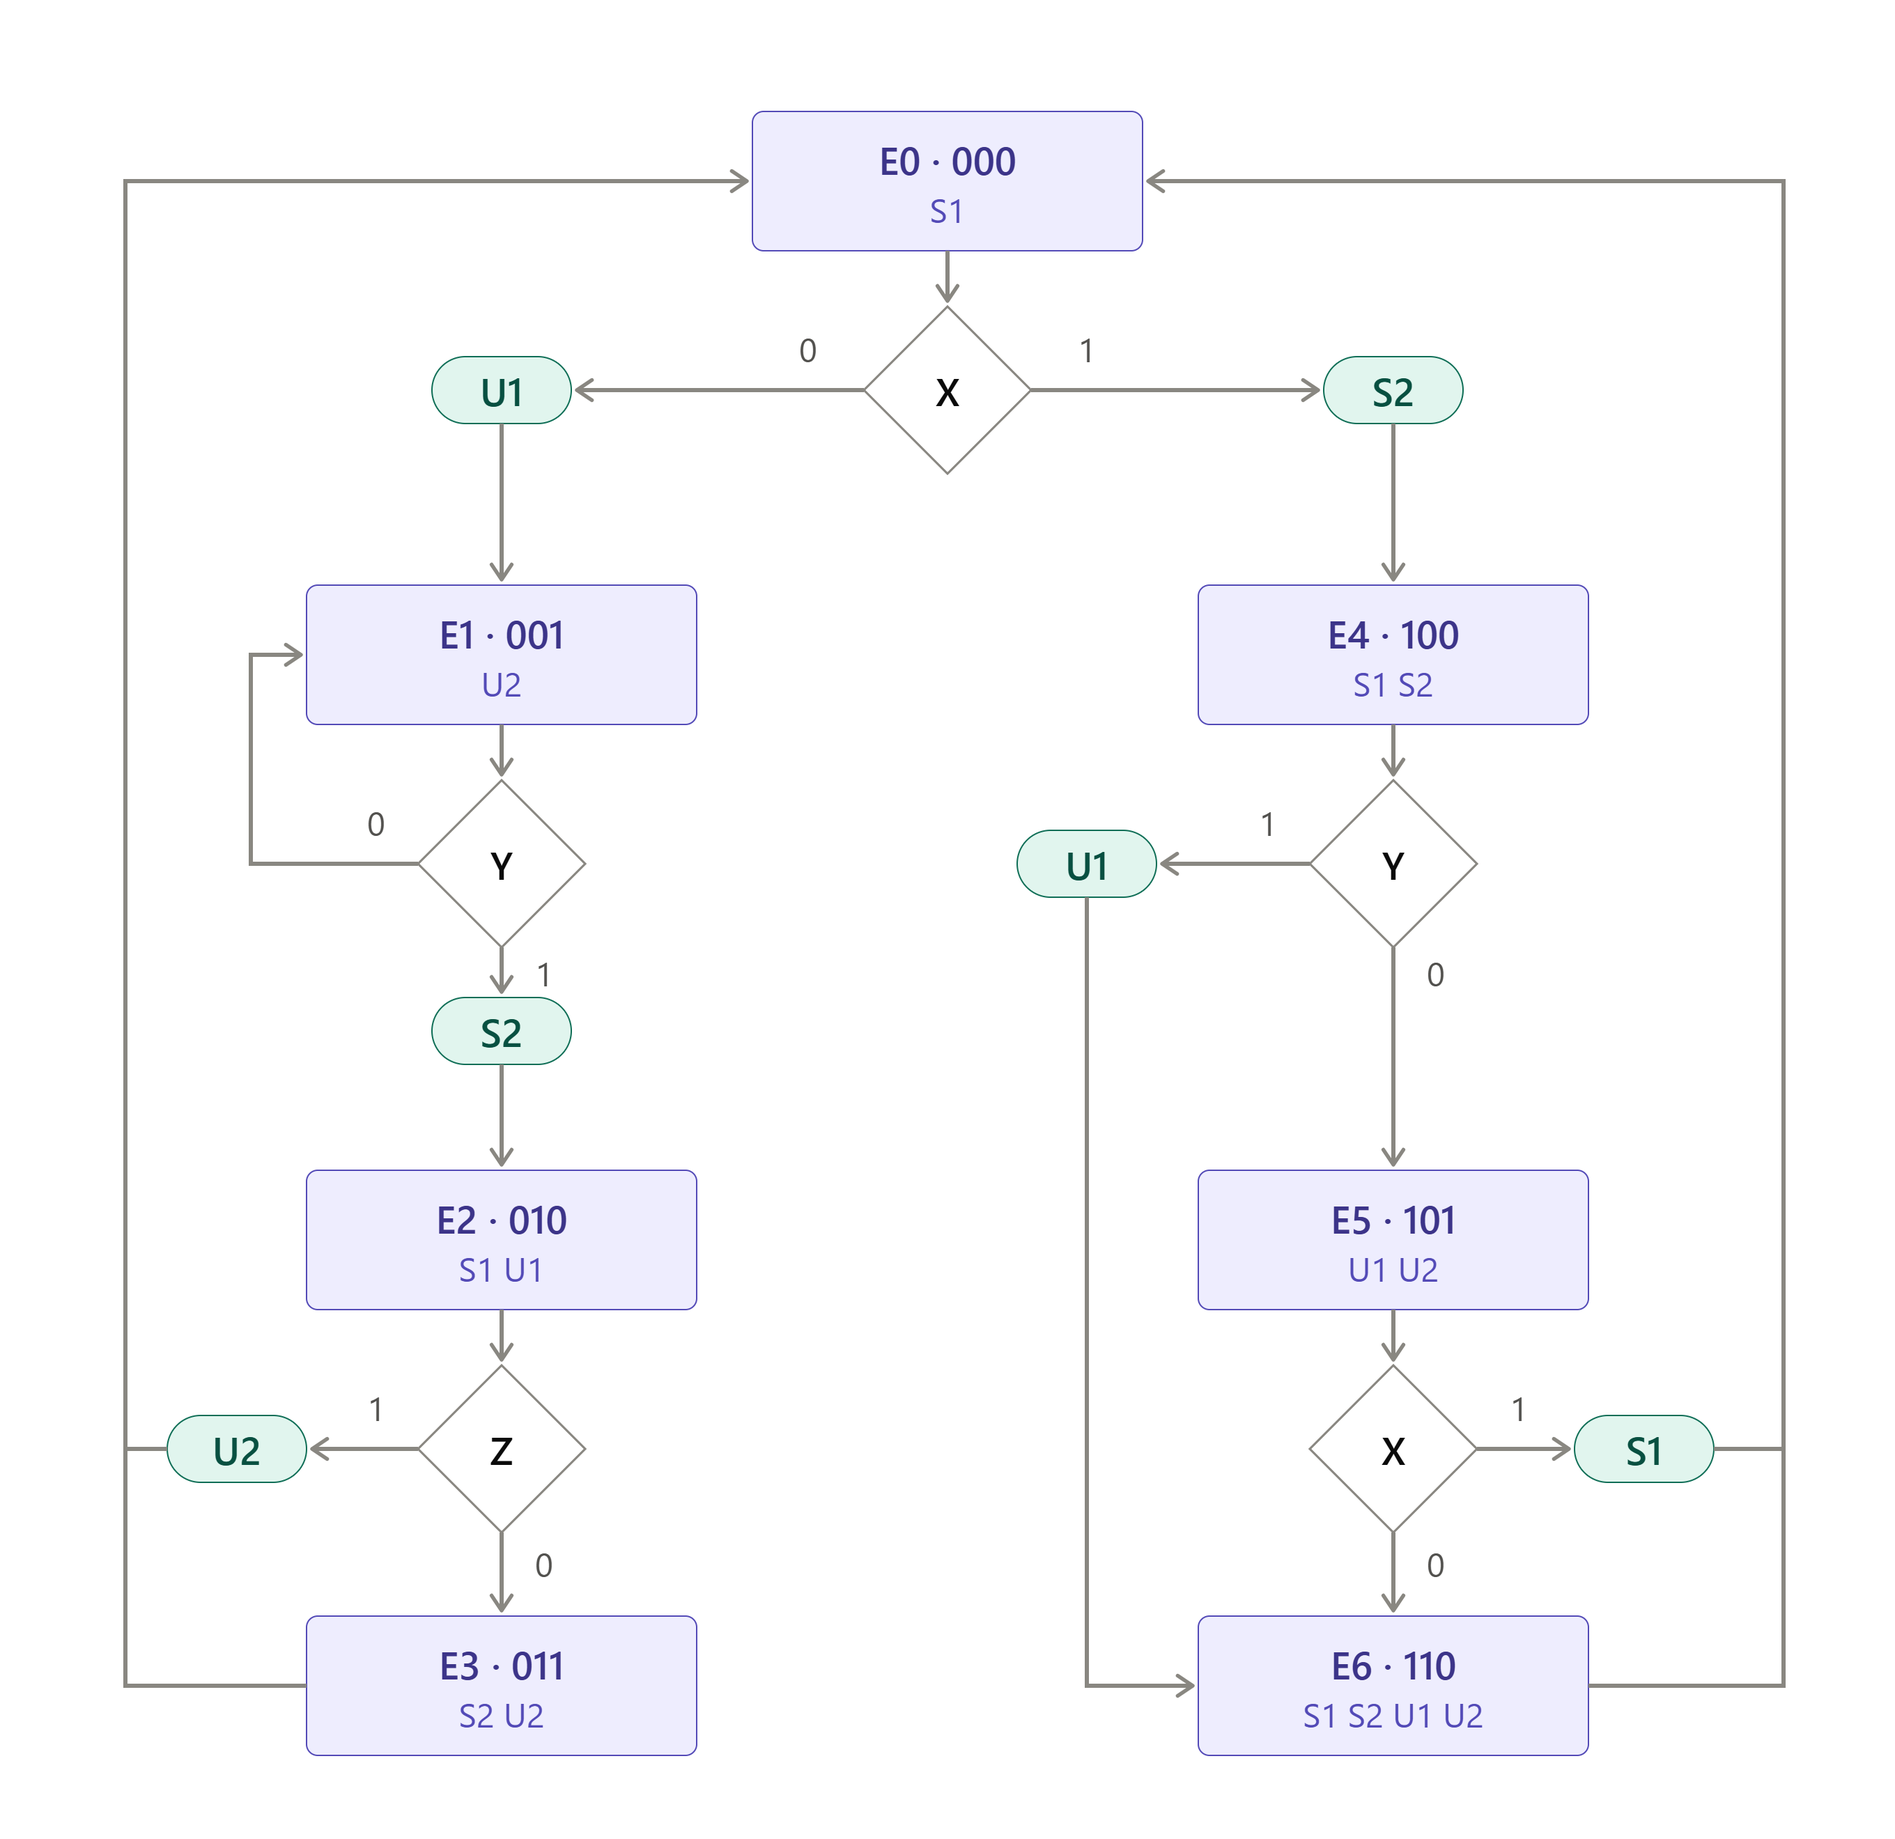
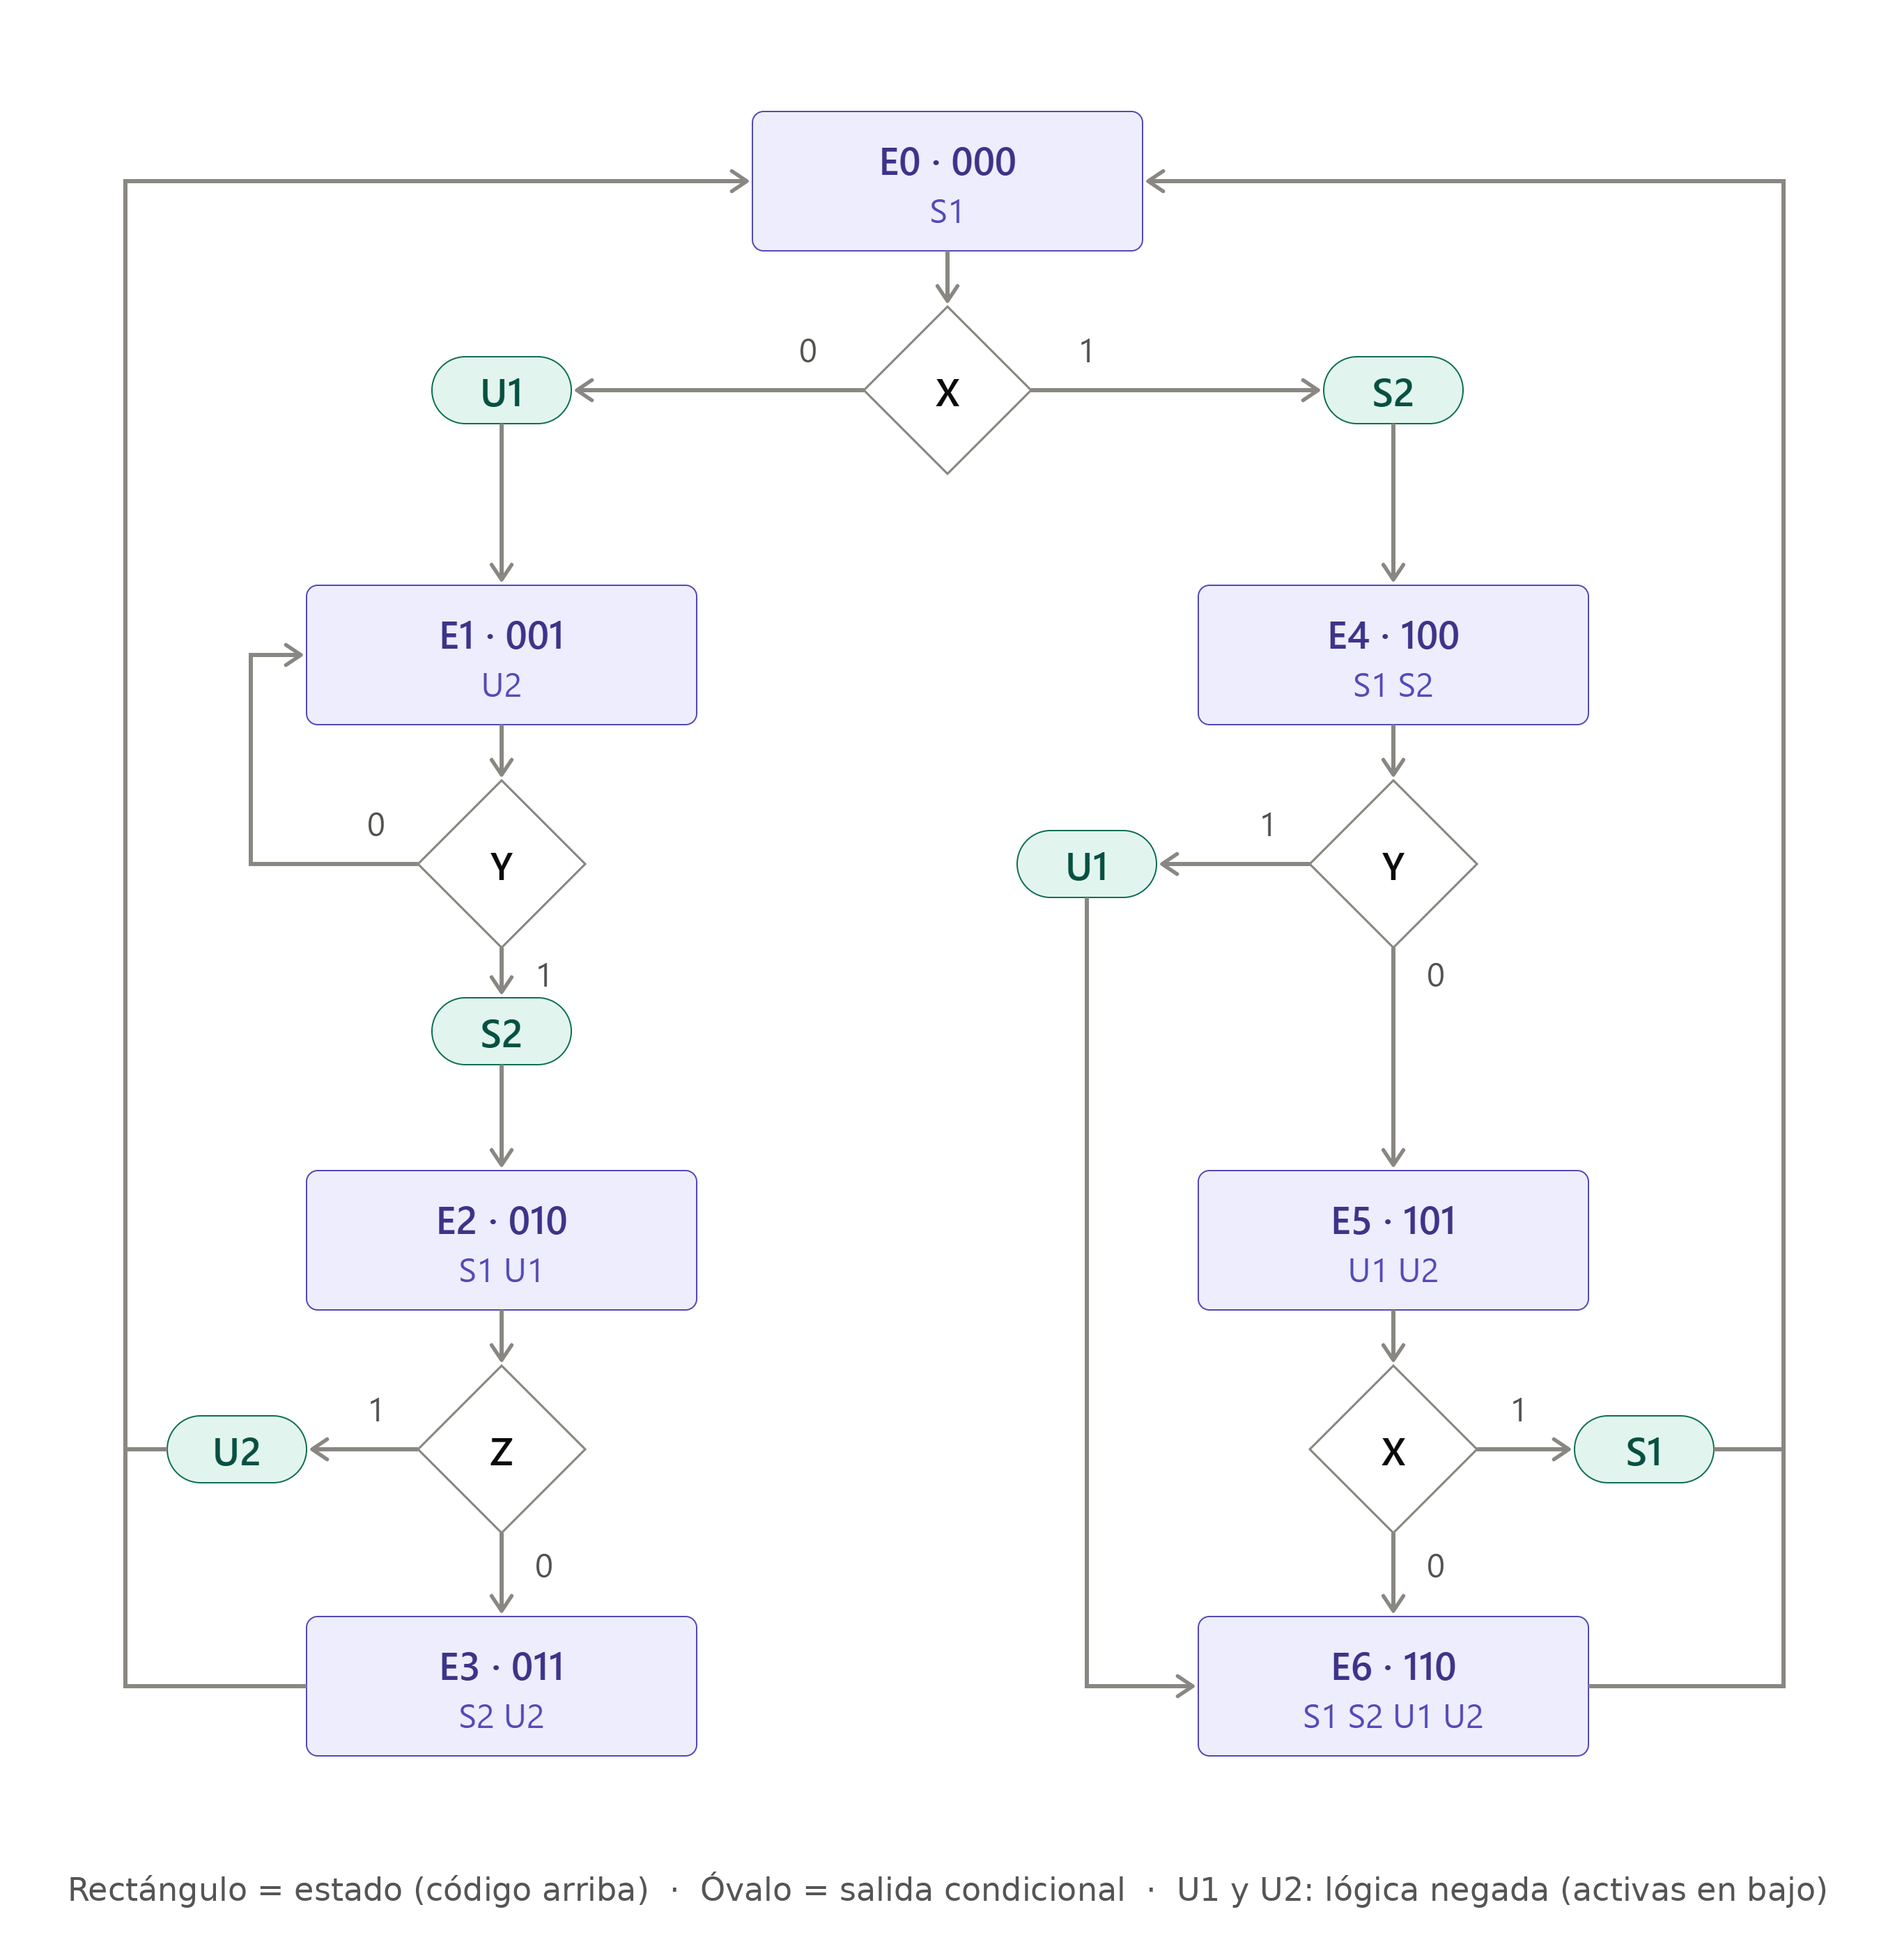
fix(practica5): codificar U1 y U2 como salidas de logica negada
El manual pide 2 salidas con logica estandar y 2 con logica negada.
Yo las habia codificado las cuatro activas en alto; U1 y U2 son las
negadas, activas en 0 e inactivas en 1. Comprobacion del usuario: en
E5 con X=0 la palabra de salidas vale 0000 (U1 y U2 activas, S1 y S2
apagadas), que es justo lo que ahora entrega la memoria.

- memory.vhd: invertidos los bits de U1 y U2 en las 8 localidades.
- tb_practica5.vhd: actualizados los 18 vectores esperados.
- tabla_memoria.tex: encabezados con barra en U1 y U2.
- evidencias/01-carta-asm.png: se agrega la leyenda de polaridad
  ("U1 y U2: logica negada (activas en bajo)"), ya que la carta nombra
  las salidas sin barra siguiendo el ejemplo del profesor y sin la nota
  se contradiria con la tabla del reporte. El SVG lleva el mismo cambio.

Revalidado contra el manual: 7 estados (pide 6 a 16), 3 entradas
sensadas (X, Y, Z), 4 salidas 2+2, 5 salidas condicionales (pide al
menos 3), orden de campos y tabla de verdad VF/Carga identicos a los
del manual.

Verificacion tras el cambio:
- Quartus 18.1: 0 errores, 62 LEs, 31 registros, Fmax 168.75 MHz.
- ModelSim: las 18 transiciones y sus salidas coinciden, 0 errores.

diff --git a/practica5/tabla_memoria.tex b/practica5/tabla_memoria.tex
@@ -2,16 +2,16 @@
 \toprule
  & & \multicolumn{2}{c}{\textbf{Prueba}} & & & \multicolumn{4}{c}{\textbf{Salidas falsas}} & \multicolumn{4}{c}{\textbf{Salidas verdaderas}} \\
 \cmidrule(lr){3-4} \cmidrule(lr){7-10} \cmidrule(lr){11-14}
-\textbf{Dir.} & \textbf{Edo.} & bin & var & \textbf{VF} & \textbf{Liga} & $S_1$ & $S_2$ & $U_1$ & $U_2$ & $S_1$ & $S_2$ & $U_1$ & $U_2$ \\
+\textbf{Dir.} & \textbf{Edo.} & bin & var & \textbf{VF} & \textbf{Liga} & $S_1$ & $S_2$ & $\overline{U_1}$ & $\overline{U_2}$ & $S_1$ & $S_2$ & $\overline{U_1}$ & $\overline{U_2}$ \\
 \midrule
-0 & E0 & \texttt{000} & $X$ & \texttt{1} & \texttt{100} & \texttt{1} & \texttt{0} & \texttt{1} & \texttt{0} & \texttt{1} & \texttt{1} & \texttt{0} & \texttt{0} \\
-1 & E1 & \texttt{001} & $Y$ & \texttt{0} & \texttt{001} & \texttt{0} & \texttt{0} & \texttt{0} & \texttt{1} & \texttt{0} & \texttt{1} & \texttt{0} & \texttt{1} \\
-2 & E2 & \texttt{010} & $Z$ & \texttt{1} & \texttt{000} & \texttt{1} & \texttt{0} & \texttt{1} & \texttt{0} & \texttt{1} & \texttt{0} & \texttt{1} & \texttt{1} \\
-3 & E3 & \texttt{100} & aux & \texttt{0} & \texttt{000} & \texttt{0} & \texttt{1} & \texttt{0} & \texttt{1} & \texttt{0} & \texttt{1} & \texttt{0} & \texttt{1} \\
-4 & E4 & \texttt{001} & $Y$ & \texttt{1} & \texttt{110} & \texttt{1} & \texttt{1} & \texttt{0} & \texttt{0} & \texttt{1} & \texttt{1} & \texttt{1} & \texttt{0} \\
-5 & E5 & \texttt{000} & $X$ & \texttt{1} & \texttt{000} & \texttt{0} & \texttt{0} & \texttt{1} & \texttt{1} & \texttt{1} & \texttt{0} & \texttt{1} & \texttt{1} \\
-6 & E6 & \texttt{100} & aux & \texttt{0} & \texttt{000} & \texttt{1} & \texttt{1} & \texttt{1} & \texttt{1} & \texttt{1} & \texttt{1} & \texttt{1} & \texttt{1} \\
+0 & E0 & \texttt{000} & $X$ & \texttt{1} & \texttt{100} & \texttt{1} & \texttt{0} & \texttt{0} & \texttt{1} & \texttt{1} & \texttt{1} & \texttt{1} & \texttt{1} \\
+1 & E1 & \texttt{001} & $Y$ & \texttt{0} & \texttt{001} & \texttt{0} & \texttt{0} & \texttt{1} & \texttt{0} & \texttt{0} & \texttt{1} & \texttt{1} & \texttt{0} \\
+2 & E2 & \texttt{010} & $Z$ & \texttt{1} & \texttt{000} & \texttt{1} & \texttt{0} & \texttt{0} & \texttt{1} & \texttt{1} & \texttt{0} & \texttt{0} & \texttt{0} \\
+3 & E3 & \texttt{100} & aux & \texttt{0} & \texttt{000} & \texttt{0} & \texttt{1} & \texttt{1} & \texttt{0} & \texttt{0} & \texttt{1} & \texttt{1} & \texttt{0} \\
+4 & E4 & \texttt{001} & $Y$ & \texttt{1} & \texttt{110} & \texttt{1} & \texttt{1} & \texttt{1} & \texttt{1} & \texttt{1} & \texttt{1} & \texttt{0} & \texttt{1} \\
+5 & E5 & \texttt{000} & $X$ & \texttt{1} & \texttt{000} & \texttt{0} & \texttt{0} & \texttt{0} & \texttt{0} & \texttt{1} & \texttt{0} & \texttt{0} & \texttt{0} \\
+6 & E6 & \texttt{100} & aux & \texttt{0} & \texttt{000} & \texttt{1} & \texttt{1} & \texttt{0} & \texttt{0} & \texttt{1} & \texttt{1} & \texttt{0} & \texttt{0} \\
 \midrule
-7 & --- & \texttt{100} & aux & \texttt{0} & \texttt{000} & \texttt{0} & \texttt{0} & \texttt{0} & \texttt{0} & \texttt{0} & \texttt{0} & \texttt{0} & \texttt{0} \\
+7 & --- & \texttt{100} & aux & \texttt{0} & \texttt{000} & \texttt{0} & \texttt{0} & \texttt{1} & \texttt{1} & \texttt{0} & \texttt{0} & \texttt{1} & \texttt{1} \\
 \bottomrule
 \end{tabular}
